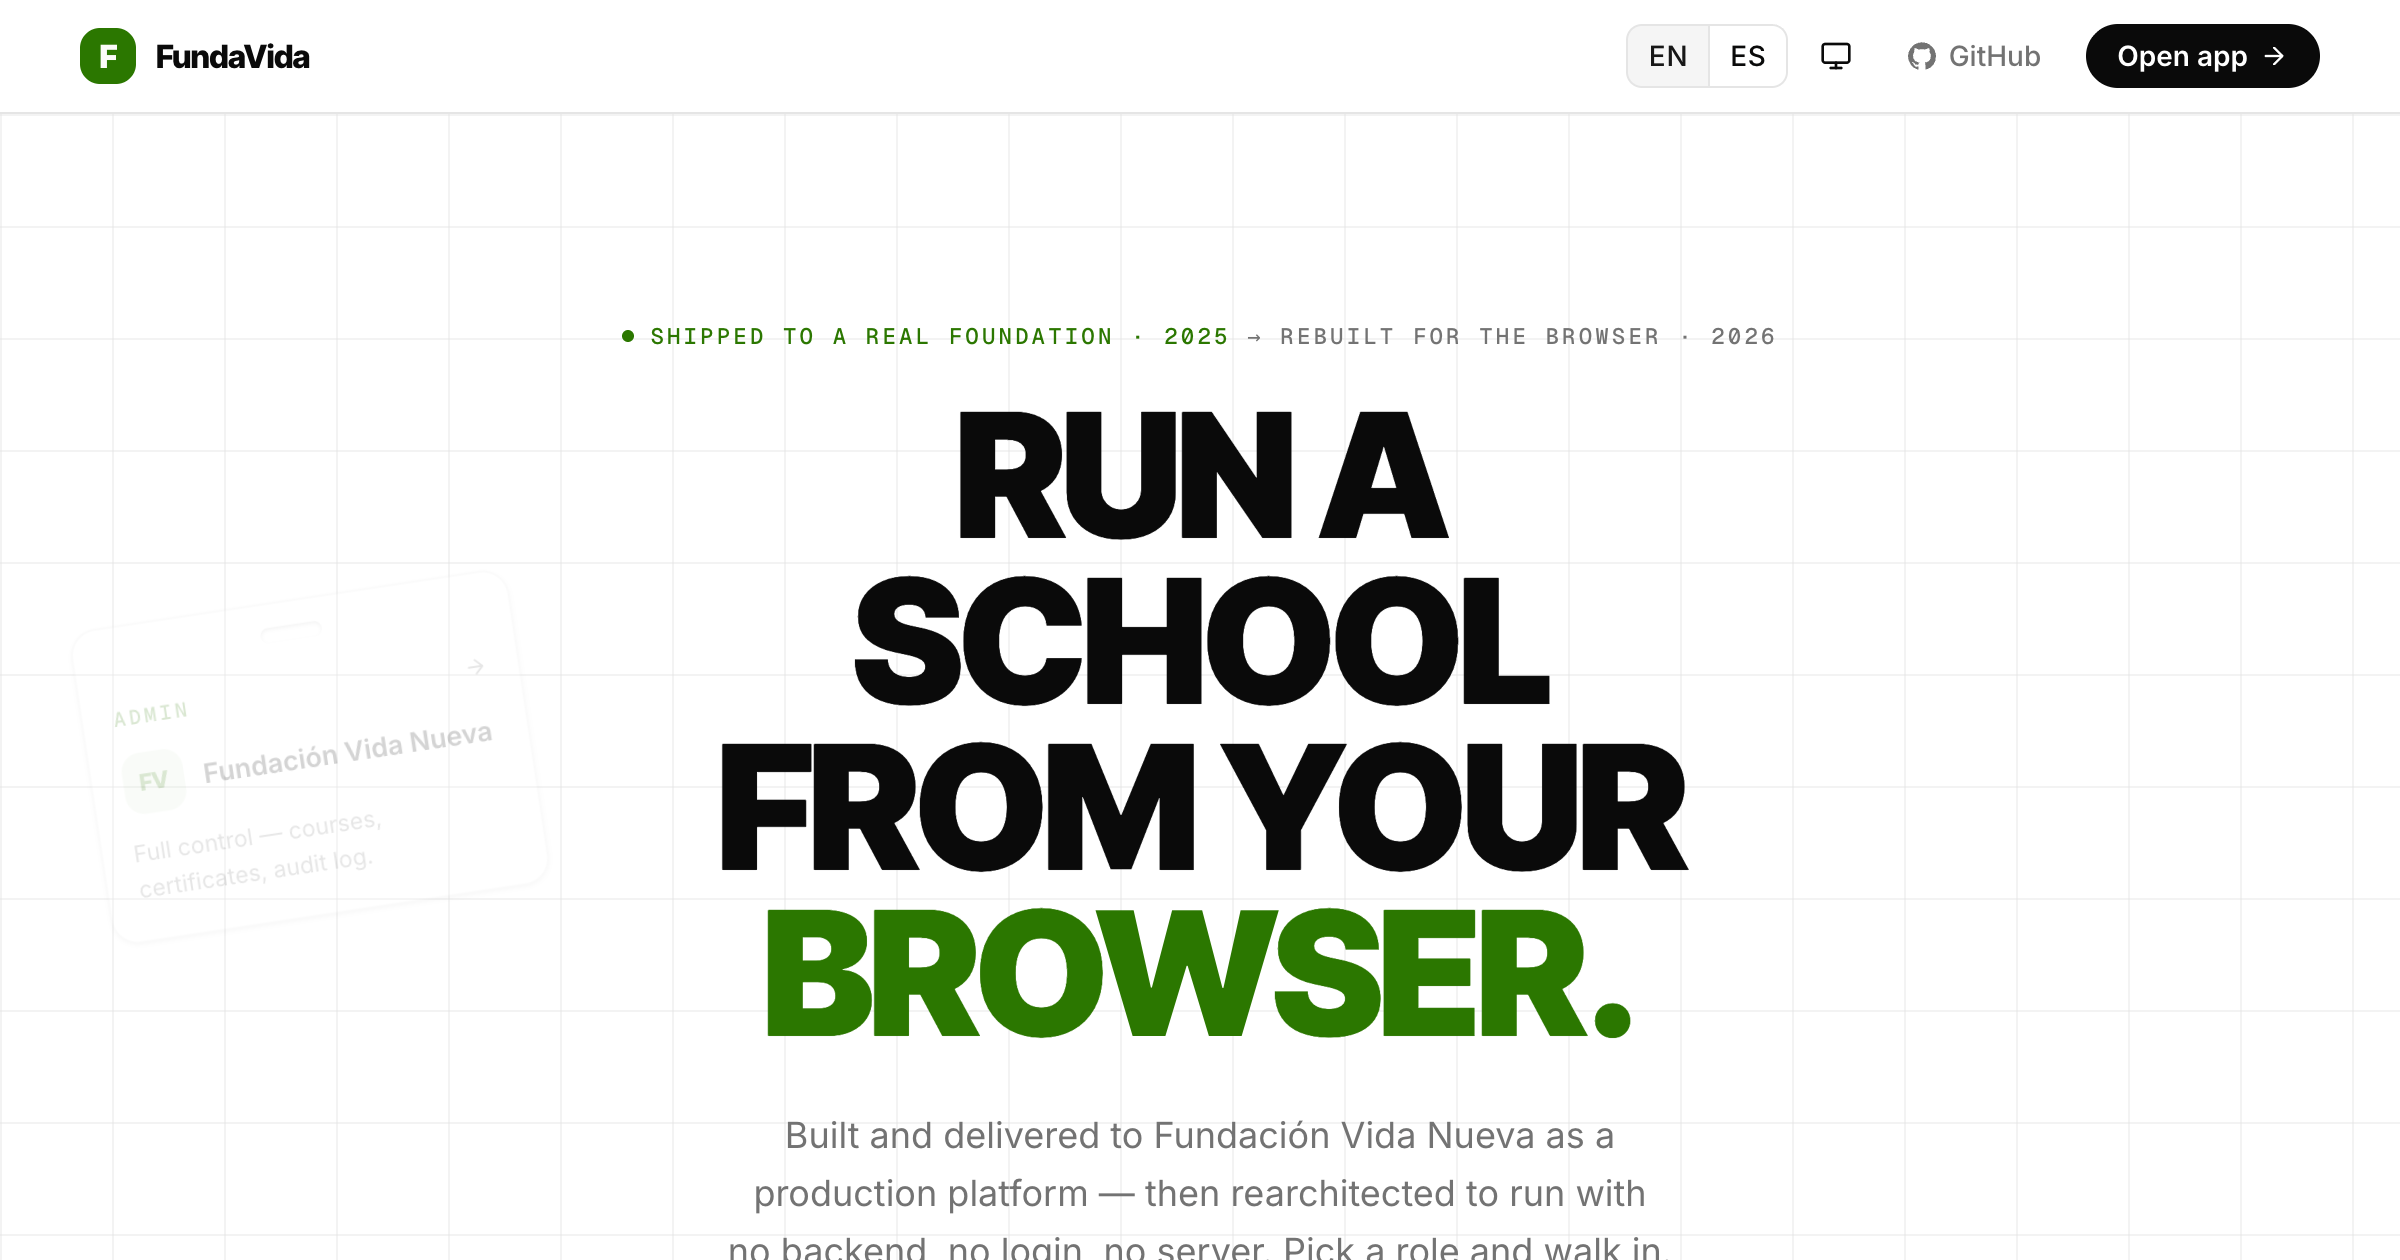
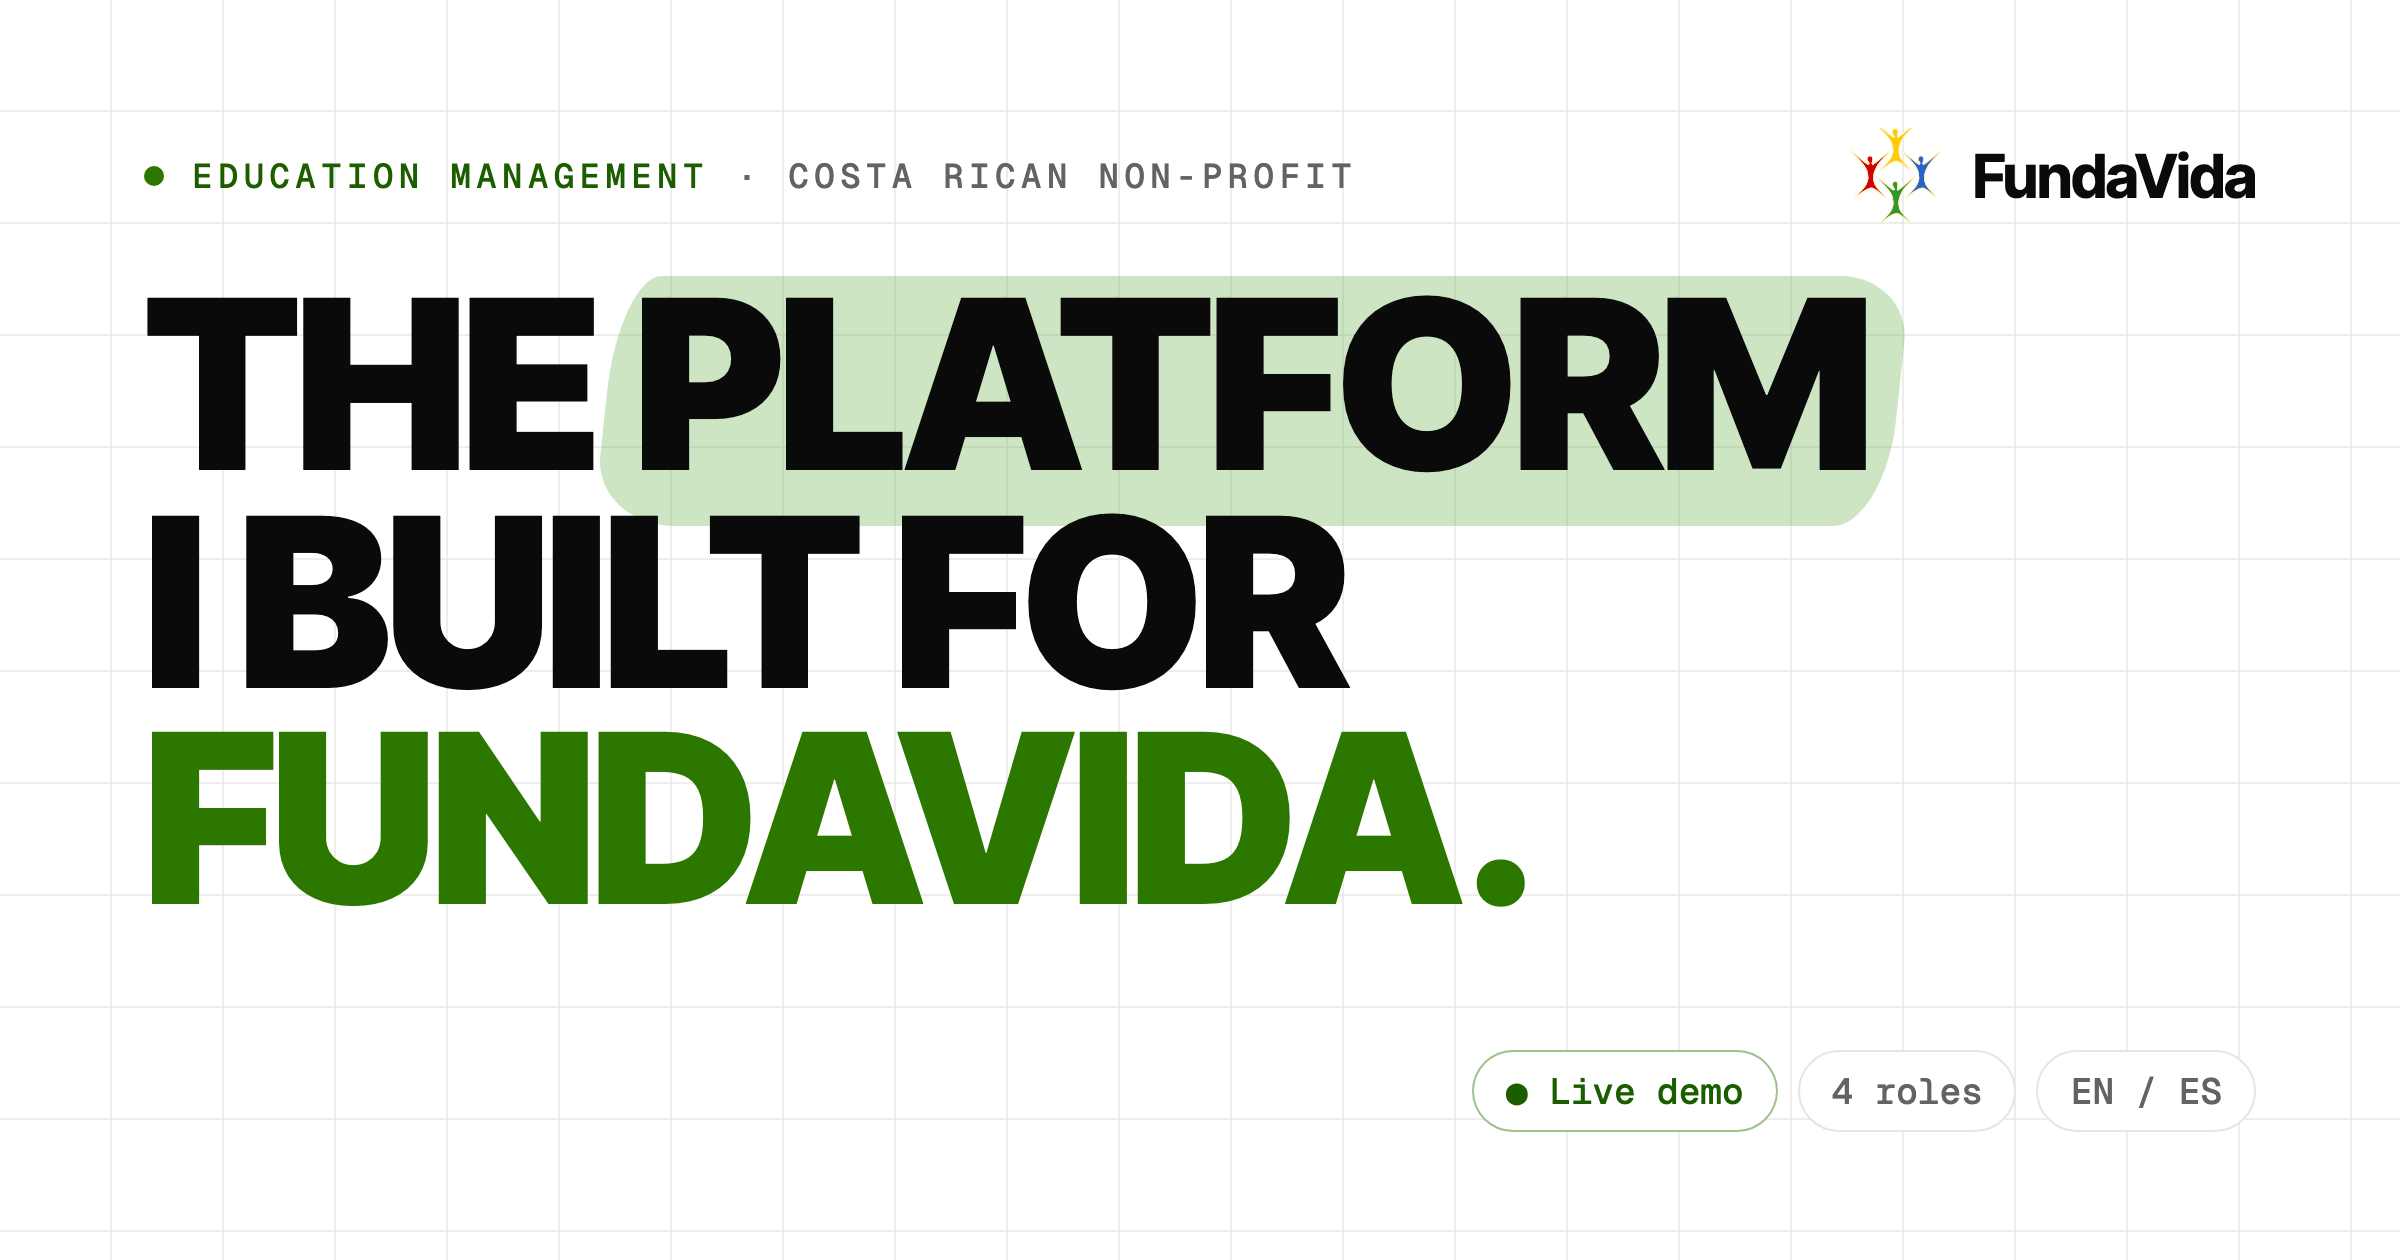
feat(seo): a social preview card that actually unfurls
og:image and twitter:image were relative ('/og-image.png'), which LinkedIn,
Slack, WhatsApp and iMessage drop, so shared links showed as bare URLs. All
preview URLs are now absolute, with og:url, og:site_name, locales, image
type/size/alt added. The image itself is a purpose-built card ('The platform
I built for FundaVida') rendered by scripts/derive-images.ts instead of a
stale landing crop that still read 'Fundación Vida Nueva'. Title and
description now say what the project is. The unused old SVG card is removed.

diff --git a/index.html b/index.html
@@ -8,28 +8,48 @@
     <title>FundaVida — Educational management platform demo</title>
     <meta
       name="description"
-      content="Educational management platform — rearchitected as a browser-only portfolio demo. Built with React, TypeScript, Vite, Tailwind, and shadcn/ui."
+      content="Courses, attendance, grades and certificates for FundaVida — now a live demo you can explore as any of four roles, entirely in your browser."
     />
 
-    <!-- Open Graph -->
+    <!-- Social preview. Crawlers (LinkedIn, Slack, WhatsApp, iMessage, X) drop
+         relative image URLs, so every URL here is absolute. The card is
+         rendered by scripts/derive-images.ts (npm run images:derive). -->
     <meta property="og:type" content="website" />
-    <meta property="og:title" content="FundaVida" />
+    <meta property="og:site_name" content="FundaVida" />
+    <meta property="og:url" content="https://fundavida.vercel.app/" />
+    <meta
+      property="og:title"
+      content="FundaVida — the education platform I built for a Costa Rican non-profit"
+    />
     <meta
       property="og:description"
-      content="Educational management platform — rearchitected as a browser-only portfolio demo."
+      content="Courses, attendance, grades and certificates for FundaVida — now a live demo you can explore as any of four roles, entirely in your browser."
     />
-    <meta property="og:image" content="/og-image.png" />
-    <meta property="og:image:width" content="1200" />
-    <meta property="og:image:height" content="630" />
+    <meta property="og:locale" content="en_US" />
+    <meta property="og:locale:alternate" content="es_CR" />
+    <meta property="og:image" content="https://fundavida.vercel.app/og-image.png" />
+    <meta property="og:image:type" content="image/png" />
+    <meta property="og:image:width" content="2400" />
+    <meta property="og:image:height" content="1260" />
+    <meta
+      property="og:image:alt"
+      content="The platform I built for FundaVida — education management for a Costa Rican non-profit. Live demo, 4 roles, EN / ES."
+    />
 
-    <!-- Twitter -->
     <meta name="twitter:card" content="summary_large_image" />
-    <meta name="twitter:title" content="FundaVida" />
+    <meta
+      name="twitter:title"
+      content="FundaVida — the education platform I built for a Costa Rican non-profit"
+    />
     <meta
       name="twitter:description"
-      content="Educational management platform — rearchitected as a browser-only portfolio demo."
+      content="Courses, attendance, grades and certificates for FundaVida — now a live demo you can explore as any of four roles, entirely in your browser."
     />
-    <meta name="twitter:image" content="/og-image.png" />
+    <meta name="twitter:image" content="https://fundavida.vercel.app/og-image.png" />
+    <meta
+      name="twitter:image:alt"
+      content="The platform I built for FundaVida — education management for a Costa Rican non-profit. Live demo, 4 roles, EN / ES."
+    />
     <!-- Inline no-FOUC theme bootstrap. The CSP in vercel.json whitelists this
          script by sha256 hash (script-src), so editing its body requires
          regenerating that hash or the theme flash-prevention silently stops. -->

diff --git a/README.md b/README.md
@@ -151,7 +151,7 @@ _Calendar — month term map with milestone glyphs._
 
 Every module ships in both locales; `npm run i18n:check` fails CI on any missing translation.
 
-> **Maintenance:** these PNGs and `public/og-image.png` are committed, not generated in CI, so they can silently drift from the live UI. Regenerate them with `npm run screenshots` whenever a shot's surface changes visually (theme, layout, seed), and commit the result.
+> **Maintenance:** these PNGs, their landing thumbnails (`*.thumb.webp`) and `public/og-image.png` are committed, not generated in CI, so they can silently drift from the live UI. Regenerate them with `npm run screenshots` whenever a shot's surface changes visually (theme, layout, seed), and commit the result. `npm run images:derive` alone rebuilds the thumbnails and the social preview card without recapturing.
 
 ## Getting started
 

diff --git a/docs/brand/source-svg/README.md b/docs/brand/source-svg/README.md
@@ -8,4 +8,4 @@ Design sources, not shipped assets — nothing here is referenced by the app or 
 - `landing-hero.svg`, `login-hero.svg` — hero illustrations. `login-hero` was stripped and cropped
   into the `/welcome` role-select view rather than used whole.
 
-Shipped illustrations live in `public/illustrations/`; the social card is `docs/brand/og-image.svg`.
+Shipped illustrations live in `public/illustrations/`; the social preview card (`public/og-image.png`) is rendered by `scripts/derive-images.ts`.
